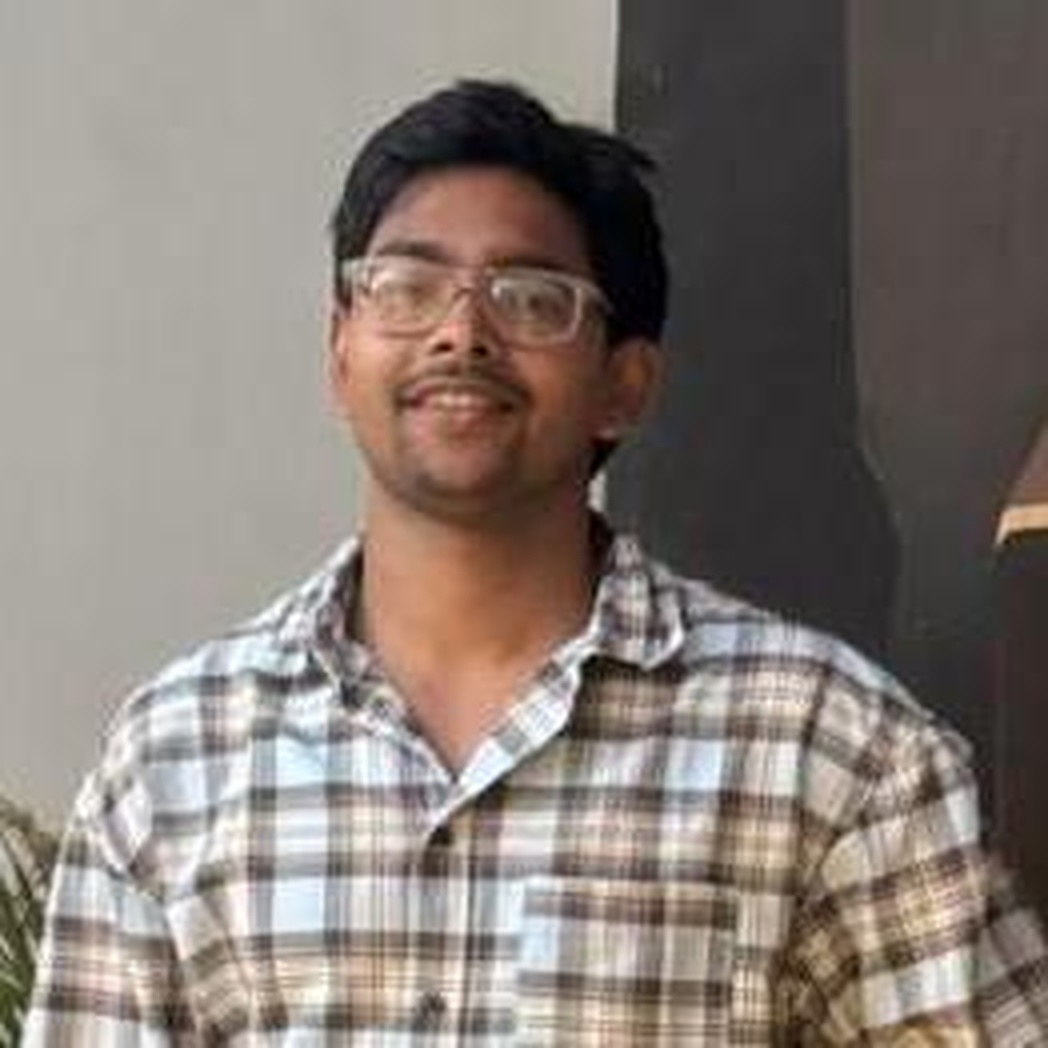
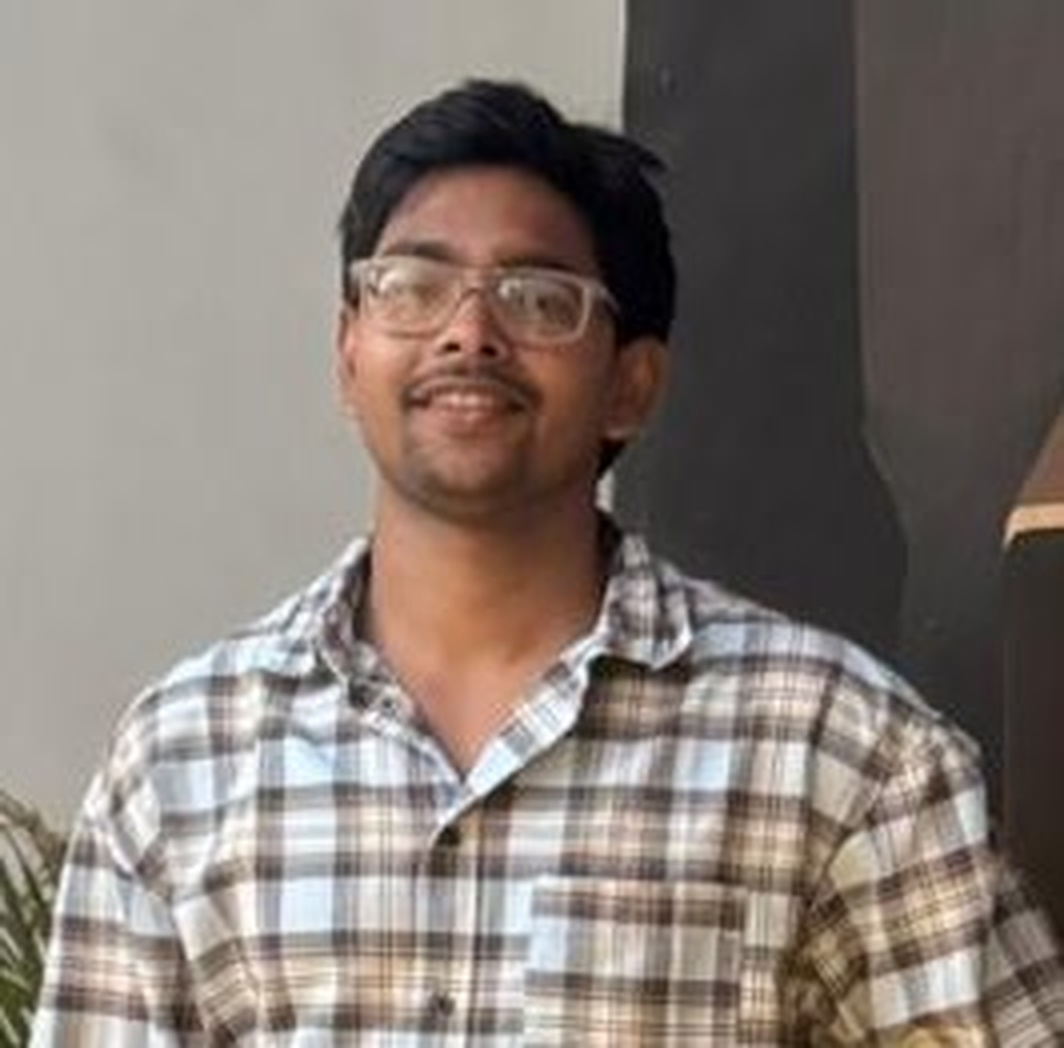
feat: regenerate ASCII portrait from uploaded photo
- source-original.jpg: the photo as provided (266x262), kept for reproducibility
- 4x LANCZOS upscale before rembg so the cutout and CLAHE have pixels to work with
- GAMMA default 0.95 -> 1.25; this upload is brighter than the avatar and the
  face was washing out into the sparse end of the ramp

diff --git a/scripts/make_ascii_svg.py b/scripts/make_ascii_svg.py
@@ -34,7 +34,7 @@ ROWS = 0   # 0 = derive from the photo's aspect ratio (chars are ~2x tall)
 RAMP = " .`:-=+*cs#%@"  # bright (sparse) -> dark (dense)
 
 # tone controls - tweak these if your photo comes out too dark or too washed
-GAMMA = float(os.environ.get("GAMMA", "0.95"))  # <1 lightens, >1 darkens
+GAMMA = float(os.environ.get("GAMMA", "1.25"))  # <1 lightens, >1 darkens
 
 CH_W = 6.2            # character advance for the mono font at FONT_PX
 CH_H = 11.0
